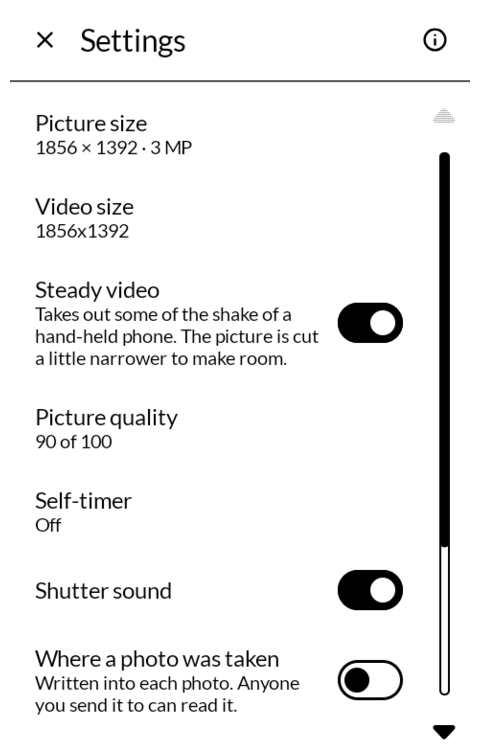
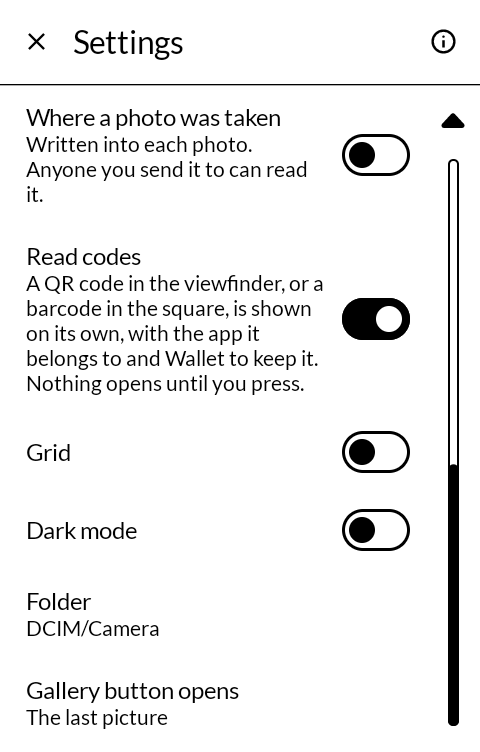
README: other apps can ask for a photo or video, Dark mode, Android 12; Settings and About shots retaken

diff --git a/README.md b/README.md
@@ -51,11 +51,15 @@ sixteen grays, a slow redraw, and is read outdoors as often as indoors. It is
 - **Other apps can ask it to scan.** It answers the request ZXing's Barcode Scanner made the
   custom (`com.google.zxing.client.android.SCAN`): the camera opens with the square up, and the
   first code read goes straight back to the app that asked.
+- **Other apps can ask it for a photo or video**, the way they would ask the phone's own
+  camera, and get the picture back. When the app gives an address to save it to, Lens writes only
+  to that address; otherwise the picture is saved to the folder below and handed back from there.
 - **Read code** in the share sheet reads a code out of a picture — a screenshot of a ticket, a
   photo of a poster — and shows it on the same screen.
 - **Twelve settings**: reading codes, picture size, video size, steady video, picture quality, a
   self-timer, the shutter sound, writing where a photo was taken into it, a grid, dark mode, the
-  folder under DCIM, and whether the gallery button opens Lens's own pictures or all of them. Steady video is on to begin with: the camera takes out some of the shake of a
+  folder under DCIM, and whether the gallery button opens Lens's own pictures or all of them.
+  Dark mode follows the phone's dark setting unless you switch it here. Steady video is on to begin with: the camera takes out some of the shake of a
   hand-held phone, and cuts the picture a little narrower to do it. It is there only on a camera
   that can.
 
@@ -67,8 +71,9 @@ When the camera cannot be opened — on a Kompakt, usually because the switch on
 has turned it off — the screen says so, and it says so too if the camera stops or a photo
 fails.
 
-It uses Android's Camera2 interface, which the Kompakt's camera supports in full. Open Camera
-on its own starts the Kompakt on the older interface, where photos come out black.
+It needs Android 12 or later. It uses Android's Camera2 interface, which the Kompakt's camera
+supports in full. Open Camera on its own starts the Kompakt on the older interface, where
+photos come out black.
 
 ## What it does not do
 
